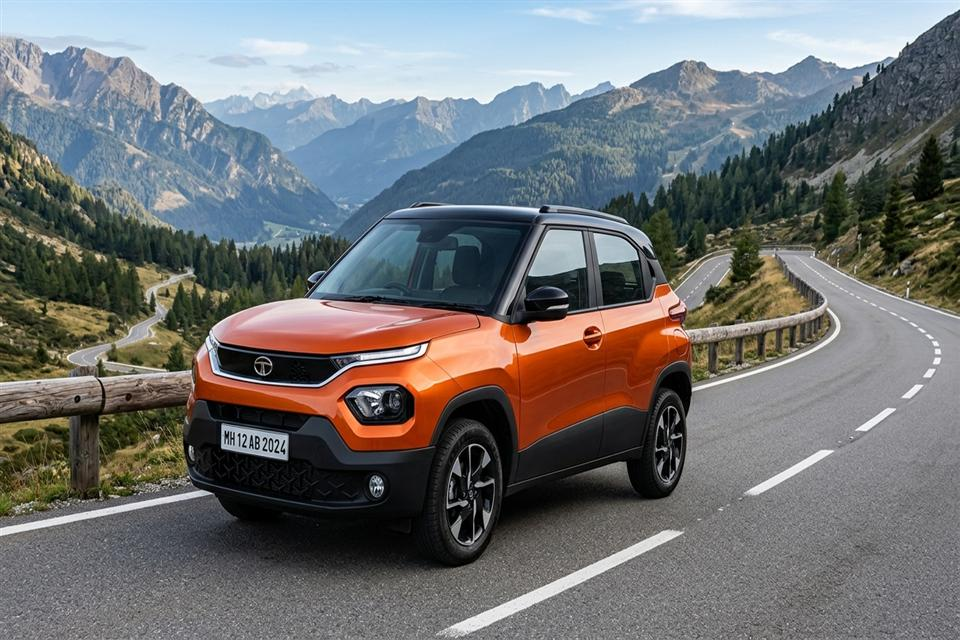
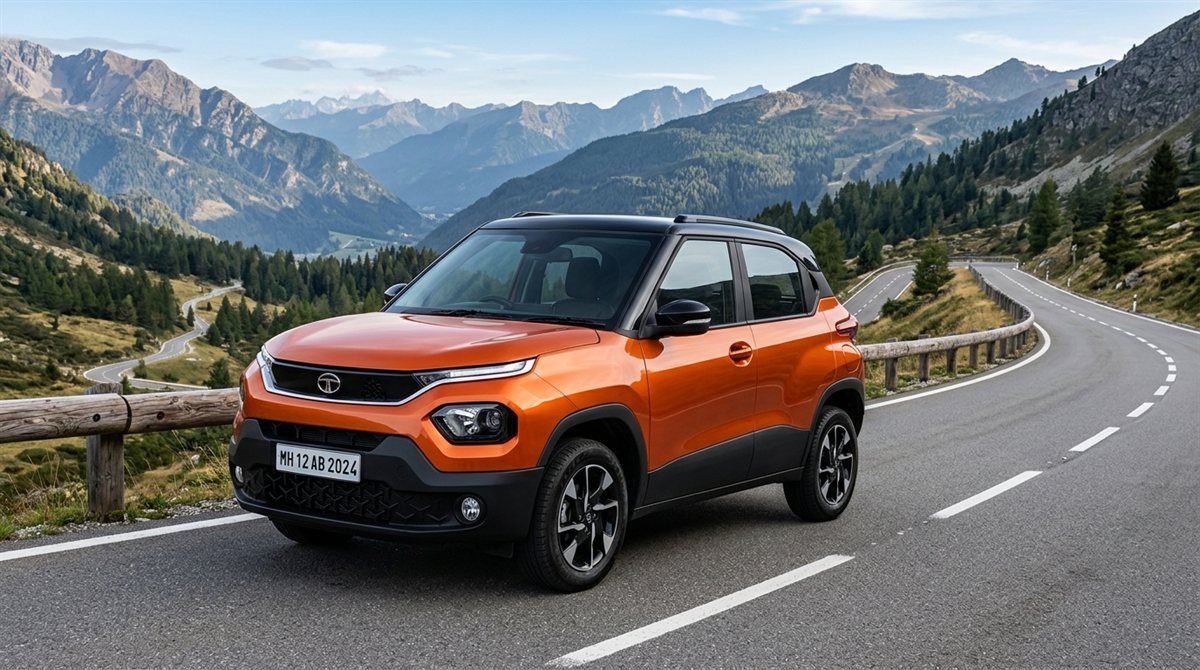
fix(fleet): audit and match all 22 car listings with dedicated model photos and un-squash aspect ratio

Changed region(s): [[0.25, 0.6875, 0.3125, 0.7188], [0.4062, 0.5312, 0.4375, 0.5625], [0.3438, 0.5625, 0.375, 0.5938]]

diff --git a/src/data/cars.js b/src/data/cars.js
@@ -124,9 +124,9 @@ export const CARS_DATA = [
     fuelEconomy: "18.4 km/l",
     description: "India's highest selling premium SUV. Panoramic sunroof, Level 2 ADAS active safety, ventilated cooling seats, and dual 10.25-inch curved screens for highway touring.",
     images: [
-      "https://images.unsplash.com/photo-1605559424843-9e4c228bf1c2?auto=format&fit=crop&w=1200&q=80",
-      "https://images.unsplash.com/photo-1519641471654-76ce0107ad1b?auto=format&fit=crop&w=1200&q=80",
-      "https://images.unsplash.com/photo-1503376780353-7e6692767b70?auto=format&fit=crop&w=1200&q=80"
+      "/cars/creta.jpg",
+      "/cars/xuv700.jpg",
+      "/cars/fortuner.jpg"
     ],
     features: ["Panoramic Sunroof", "Ventilated Front Seats", "Level 2 ADAS Safety Suite", "Bose 8-Speaker Premium Audio", "360-degree Surround Camera", "Dual-Zone Automatic Climate"],
     tags: ["Panoramic Sunroof", "Ventilated Seats", "ADAS Tech"]
@@ -157,9 +157,9 @@ export const CARS_DATA = [
     fuelEconomy: "27.1 km/l (Strong Hybrid)",
     description: "The timeless executive sedan of India. Strong Hybrid powertrain giving unmatched 27+ km/l mileage, plush rear legroom, Honda Sensing ADAS, and whisper-quiet electric drive.",
     images: [
+      "/cars/city.jpg",
       "https://images.unsplash.com/photo-1590362891991-f776e747a588?auto=format&fit=crop&w=1200&q=80",
-      "https://images.unsplash.com/photo-1605559424843-9e4c228bf1c2?auto=format&fit=crop&w=1200&q=80",
-      "https://images.unsplash.com/photo-1502877338535-766e1452684a?auto=format&fit=crop&w=1200&q=80"
+      "/cars/swift.jpg"
     ],
     features: ["Self-Charging Strong Hybrid EV Mode", "Honda Sensing ADAS Suite", "LaneWatch Blind Spot Camera", "Electric Sunroof", "Ultra Plush Rear Lounge", "Remote Engine Start"],
     tags: ["Strong Hybrid", "27+ km/l Mileage", "Executive Class"]
@@ -190,9 +190,9 @@ export const CARS_DATA = [
     fuelEconomy: "15.2 km/l",
     description: "India's off-road icon. Built for Goa beach getaways, Western Ghat road trips, and Himachal mountain passes. 4x4 low-range transfer case and commanding road presence.",
     images: [
-      "https://images.unsplash.com/photo-1533473359331-0135ef1b58bf?auto=format&fit=crop&w=1200&q=80",
-      "https://images.unsplash.com/photo-1549399542-7e3f8b79c341?auto=format&fit=crop&w=1200&q=80",
-      "https://images.unsplash.com/photo-1519641471654-76ce0107ad1b?auto=format&fit=crop&w=1200&q=80"
+      "/cars/thar.jpg",
+      "/cars/defender.jpg",
+      "/cars/gwagon.jpg"
     ],
     features: ["True 4x4 with Shift-on-Fly Transfer Case", "Mechanical Locking Differential", "226mm Water Wading & Ground Clearance", "Washable Interior with Drain Plugs", "Convertible/Hard Top", "Roll Cage Certified"],
     tags: ["4x4 Off-Road", "Goa Favorite", "Road Presence"]
@@ -223,9 +223,9 @@ export const CARS_DATA = [
     fuelEconomy: "16.5 km/l",
     description: "The 7-seater highway dominator. 185 HP mHawk diesel, All-Wheel Drive, Skyroof, Sony 3D immersive 12-speaker audio with headrest speakers, and Level 2 ADAS safety.",
     images: [
-      "https://images.unsplash.com/photo-1542282088-72c9c27ed0cd?auto=format&fit=crop&w=1200&q=80",
-      "https://images.unsplash.com/photo-1519641471654-76ce0107ad1b?auto=format&fit=crop&w=1200&q=80",
-      "https://images.unsplash.com/photo-1503376780353-7e6692767b70?auto=format&fit=crop&w=1200&q=80"
+      "/cars/xuv700.jpg",
+      "/cars/innova.jpg",
+      "/cars/fortuner.jpg"
     ],
     features: ["Panoramic Skyroof", "Sony 3D 12-Speaker Sound with Roof & Headrest Audio", "Smart Door Handles", "All-Wheel Drive (AWD)", "Dual 10.25-inch Digital Screens", "AdrenoX AI Connected Tech"],
     tags: ["7 Seater", "mHawk Diesel", "Highway Cruiser"]
@@ -256,9 +256,9 @@ export const CARS_DATA = [
     fuelEconomy: "21.1 km/l (Hybrid)",
     description: "The undisputed king of Indian family travel and long-distance luxury. Ottoman captain chairs with leg rest, panoramic moonroof, self-charging hybrid with 21+ km/l efficiency.",
     images: [
-      "https://images.unsplash.com/photo-1552519507-da3b142c6e3d?auto=format&fit=crop&w=1200&q=80",
-      "https://images.unsplash.com/photo-1549399542-7e3f8b79c341?auto=format&fit=crop&w=1200&q=80",
-      "https://images.unsplash.com/photo-1503376780353-7e6692767b70?auto=format&fit=crop&w=1200&q=80"
+      "/cars/innova.jpg",
+      "/cars/fortuner.jpg",
+      "/cars/xuv700.jpg"
     ],
     features: ["VIP Powered Ottoman Captain Seats", "Dual Panoramic Glass Roof", "Toyota Safety Sense (TSS 3.0)", "JBL 9-Speaker Audio", "360-degree Camera with Dynamic Guidelines", "Ventilated Front Seats"],
     tags: ["Ottoman Seats", "Bulletproof Reliability", "Family Favorite"]
@@ -289,9 +289,9 @@ export const CARS_DATA = [
     fuelEconomy: "465 KM Range",
     description: "India's highest selling electric SUV. 465 km certified range, cinematic 12.3-inch touchscreen with Arcade.ev, V2V/V2L charging capabilities, and ultra-smooth silent acceleration.",
     images: [
-      "https://images.unsplash.com/photo-1560958089-b8a1929cea89?auto=format&fit=crop&w=1200&q=80",
-      "https://images.unsplash.com/photo-1536700503339-1e4b06520771?auto=format&fit=crop&w=1200&q=80",
-      "https://images.unsplash.com/photo-1617788138017-80ad40651399?auto=format&fit=crop&w=1200&q=80"
+      "/cars/nexon.jpg",
+      "/cars/tata_punch.jpg",
+      "/cars/creta.jpg"
     ],
     features: ["465 KM Long Range Battery", "JBL Cinematic Sound System with Subwoofer", "Vehicle to Load (V2L) Power Bank Feature", "Fast DC Charging (10-80% in 56 mins)", "Paddle Shifter Regen Modes", "Fastag Enabled"],
     tags: ["Zero Emissions", "Green Plate", "Electric EV"]
@@ -322,9 +322,9 @@ export const CARS_DATA = [
     fuelEconomy: "14.4 km/l",
     description: "The VIP status symbol across every Indian state. 500 Nm torque from 2.8L turbo diesel engine, Catamaran-inspired styling, sequential LED indicators, and supreme road clearance.",
     images: [
-      "https://images.unsplash.com/photo-1519641471654-76ce0107ad1b?auto=format&fit=crop&w=1200&q=80",
-      "https://images.unsplash.com/photo-1533473359331-0135ef1b58bf?auto=format&fit=crop&w=1200&q=80",
-      "https://images.unsplash.com/photo-1503376780353-7e6692767b70?auto=format&fit=crop&w=1200&q=80"
+      "/cars/fortuner.jpg",
+      "/cars/innova.jpg",
+      "/cars/thar.jpg"
     ],
     features: ["500 Nm Massive Torque Diesel", "4x4 High & Low with Auto-LSD", "Dual-Tone Contrast Black Roof", "11-Speaker JBL Audio System", "Ventilated Front Seats", "Kick-Sensor Powered Tailgate"],
     tags: ["VIP Status", "Legender Edition", "500 Nm Torque"]
@@ -454,9 +454,9 @@ export const CARS_DATA = [
     fuelEconomy: "16.1 km/l",
     description: "India's highest selling luxury sedan. Right-hand drive Long Wheelbase edition offering reclining rear seats with memory, rear touchpad entertainment control, and AIRMATIC air suspension.",
     images: [
+      "https://images.unsplash.com/photo-1617814076367-b759c7d7e738?auto=format&fit=crop&w=1200&q=80",
       "https://images.unsplash.com/photo-1618843479313-40f8afb4b4d8?auto=format&fit=crop&w=1200&q=80",
-      "https://images.unsplash.com/photo-1563720223185-11003d516935?auto=format&fit=crop&w=1200&q=80",
-      "https://images.unsplash.com/photo-1549399542-7e3f8b79c341?auto=format&fit=crop&w=1200&q=80"
+      "/cars/phantom.jpg"
     ],
     features: ["Long Wheelbase Rear Reclining Executive Seats", "Rear Center Armrest Touch Tablet", "Burmester Surround Sound (590W)", "Panoramic Dual Sunroofs", "AIRMATIC Self-Leveling Air Suspension", "Electric Roller Sunblinds"],
     tags: ["LWB Executive", "Wedding & Chauffeur", "VIP First Class"]
@@ -487,9 +487,9 @@ export const CARS_DATA = [
     fuelEconomy: "10.2 km/l",
     description: "The most sought-after celebrity SUV in Mumbai and Delhi. 900mm water wading, electronic air suspension that raises by 75mm, ClearSight ground view cameras, and iconic boxy silhouettes.",
     images: [
-      "https://images.unsplash.com/photo-1542282088-72c9c27ed0cd?auto=format&fit=crop&w=1200&q=80",
-      "https://images.unsplash.com/photo-1519641471654-76ce0107ad1b?auto=format&fit=crop&w=1200&q=80",
-      "https://images.unsplash.com/photo-1503376780353-7e6692767b70?auto=format&fit=crop&w=1200&q=80"
+      "/cars/defender.jpg",
+      "/cars/thar.jpg",
+      "/cars/gwagon.jpg"
     ],
     features: ["Electronic Air Suspension with Adaptive Dynamics", "900mm Water Wading Capability", "Meridian 3D Surround 700W Sound", "Terrain Response 2 with Auto Mode", "ClearSight Ground Camera & Rear Mirror", "Pivi Pro 11.4-inch Touchscreen"],
     tags: ["Celebrity Choice", "900mm Wading", "Defender 110"]
@@ -520,9 +520,9 @@ export const CARS_DATA = [
     fuelEconomy: "10.8 km/l",
     description: "Sports car genes in an everyday SUV body. 7-speed lightning quick PDK transmission, GTS sport exhaust with valve acoustics, and Porsche Surface Coated Brakes.",
     images: [
+      "/cars/macan.jpg",
       "https://images.unsplash.com/photo-1503376780353-7e6692767b70?auto=format&fit=crop&w=1200&q=80",
-      "https://images.unsplash.com/photo-1580273916550-e323be2ae537?auto=format&fit=crop&w=1200&q=80",
-      "https://images.unsplash.com/photo-1541348263662-e0c8de4259ba?auto=format&fit=crop&w=1200&q=80"
+      "/cars/creta.jpg"
     ],
     features: ["7-Speed Dual-Clutch Porsche PDK", "Sport Chrono Package with Mode Switch", "GTS Air Suspension (-10mm lowering)", "Bose High-End Audio", "Race-Tex Interior with GTS Package", "Sport Exhaust System"],
     tags: ["Porsche Thrill", "Twin Turbo V6", "Sports SUV"]
@@ -553,9 +553,9 @@ export const CARS_DATA = [
     fuelEconomy: "8.5 km/l",
     description: "The unmistakable king of Indian VIP motorcades. Handcrafted 4.0L V8 Biturbo engine delivering 585 horsepower through twin side-exit exhausts with unforgettable acoustic roar.",
     images: [
-      "https://images.unsplash.com/photo-1520031441872-265e4ff70366?auto=format&fit=crop&w=1200&q=80",
-      "https://images.unsplash.com/photo-1618843479313-40f8afb4b4d8?auto=format&fit=crop&w=1200&q=80",
-      "https://images.unsplash.com/photo-1563720223185-11003d516935?auto=format&fit=crop&w=1200&q=80"
+      "/cars/gwagon.jpg",
+      "/cars/defender.jpg",
+      "/cars/thar.jpg"
     ],
     features: ["Handcrafted AMG 4.0L V8 Biturbo (585 HP)", "AMG Performance Twin Side Exhausts", "3 Electro-Mechanical Differential Locks", "22-inch AMG Forged Cross-Spoke Alloys", "Burmester Surround Sound System", "Exclusive Nappa Leather Interior"],
     tags: ["G-Wagon", "V8 Biturbo", "VIP Convoy King"]
@@ -652,9 +652,9 @@ export const CARS_DATA = [
     fuelEconomy: "Hybrid Powertrain",
     description: "The most powerful road-legal Ferrari in India. 986 HP twin-turbo V8 combined with three electric motors and RAC-e torque vectoring for sub-2.5 second launch speeds.",
     images: [
+      "/cars/sf90.jpg",
       "https://images.unsplash.com/photo-1592198084033-aade902d1aae?auto=format&fit=crop&w=1200&q=80",
-      "https://images.unsplash.com/photo-1583121274602-3e2820c69888?auto=format&fit=crop&w=1200&q=80",
-      "https://images.unsplash.com/photo-1503376780353-7e6692767b70?auto=format&fit=crop&w=1200&q=80"
+      "/cars/revuelto.jpg"
     ],
     features: ["Ferrari 986 HP Hybrid Architecture", "Assetto Fiorano Lightweight Track Package", "Multimatic Shock Absorbers", "Head-Up Display with Touch Haptic Steering", "Front Axle Hydraulic Lift for Indian Road Speedbreakers", "Carbon Fiber Wheels & Aero Wing"],
     tags: ["986 HP Hypercar", "Prancing Horse", "Assetto Fiorano"]
@@ -685,9 +685,9 @@ export const CARS_DATA = [
     fuelEconomy: "V12 Hybrid",
     description: "Sant'Agata Bolognese's 1,001 HP V12 flagship. Vertical scissor doors, carbon-fiber monofuselage chassis, 13 driving modes, and front axle lift for smooth city speed breaker clearance.",
     images: [
+      "/cars/revuelto.jpg",
       "https://images.unsplash.com/photo-1544829099-b9a0c07fad1a?auto=format&fit=crop&w=1200&q=80",
-      "https://images.unsplash.com/photo-1511919884226-fd3cad34687c?auto=format&fit=crop&w=1200&q=80",
-      "https://images.unsplash.com/photo-1614162692292-7ac56d7f7f1e?auto=format&fit=crop&w=1200&q=80"
+      "/cars/sf90.jpg"
     ],
     features: ["6.5L Naturally Aspirated V12 + 3 Electric Motors (1001 HP)", "Iconic Vertical Scissor Doors", "Front Hydraulic Axle Lift System (+40mm)", "Carbon Monofuselage Chassis", "Lamborghini Dinamica Veicolo Integrata", "Bridgestone Potenza Sport Custom Tyres"],
     tags: ["1001 HP V12", "Scissor Doors", "Indian Speedbreaker Lift"]
@@ -718,9 +718,9 @@ export const CARS_DATA = [
     fuelEconomy: "7.1 km/l",
     description: "The pinnacle of luxury automotive heritage. Starlight headliner with 1,344 fiber-optic shooting stars, refrigerated champagne console, lambswool carpets, and Flagbearer Magic Carpet Ride suspension.",
     images: [
+      "/cars/phantom.jpg",
       "https://images.unsplash.com/photo-1631295868223-63265b40d9e4?auto=format&fit=crop&w=1200&q=80",
-      "https://images.unsplash.com/photo-1563720223185-11003d516935?auto=format&fit=crop&w=1200&q=80",
-      "https://images.unsplash.com/photo-1549399542-7e3f8b79c341?auto=format&fit=crop&w=1200&q=80"
+      "https://images.unsplash.com/photo-1563720223185-11003d516935?auto=format&fit=crop&w=1200&q=80"
     ],
     features: ["Starlight Headliner with Shooting Star Animations", "Flagbearer Stereo Camera Predictive Suspension", "Power Suicide Coach Doors with One-Touch Close", "Refrigerated Console with Bespoke Champagne Flutes", "Rear Theater Lounge with Twin 12-inch Displays", "Chauffeur & VIP Armed Security Protocol Available"],
     tags: ["Pinnacle of Luxury", "Royal Starlight", "VIP Chauffeur"]

diff --git a/src/components/CarCard.jsx b/src/components/CarCard.jsx
@@ -37,7 +37,7 @@ export default function CarCard({ car }) {
       
       {/* Top Image & Badge Container */}
       <div>
-        <div className="relative aspect-[16/10] w-full rounded-2xl overflow-hidden bg-slate-800/80 mb-4">
+        <div className="relative aspect-[16/9] w-full rounded-2xl overflow-hidden bg-slate-950 mb-4">
           
           {/* Main Car Photo */}
           <img
